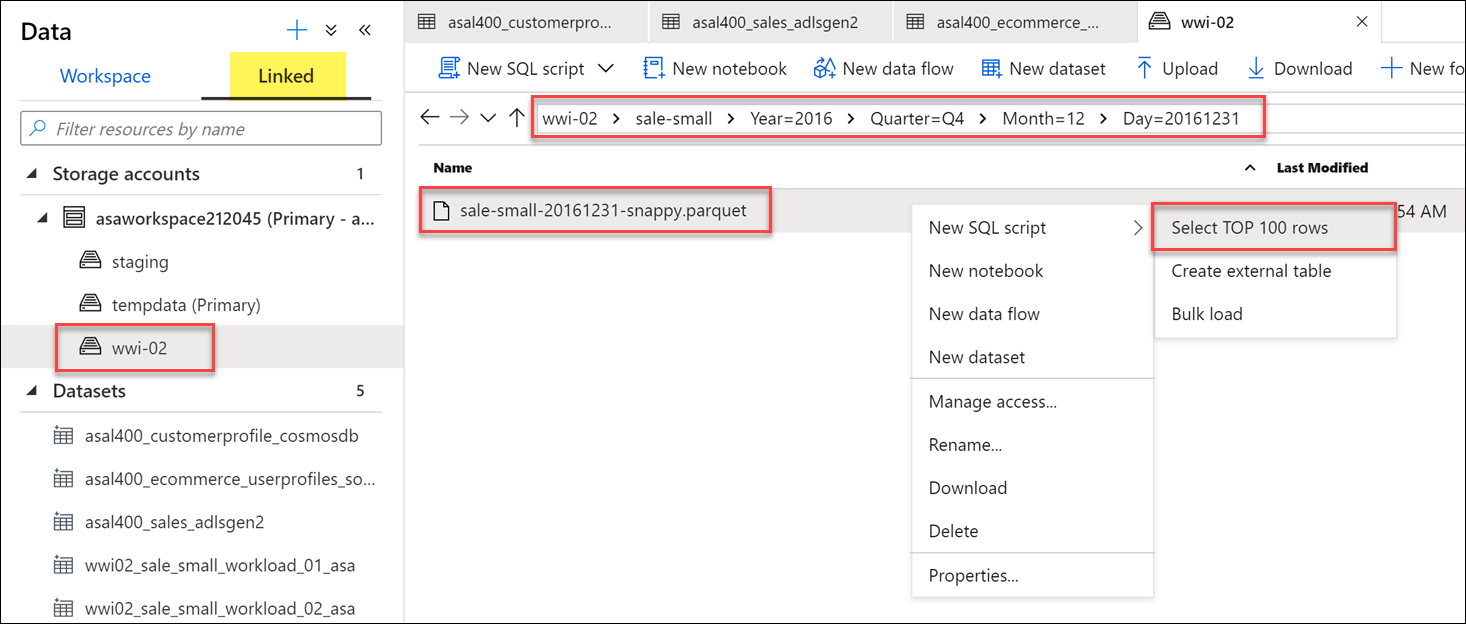
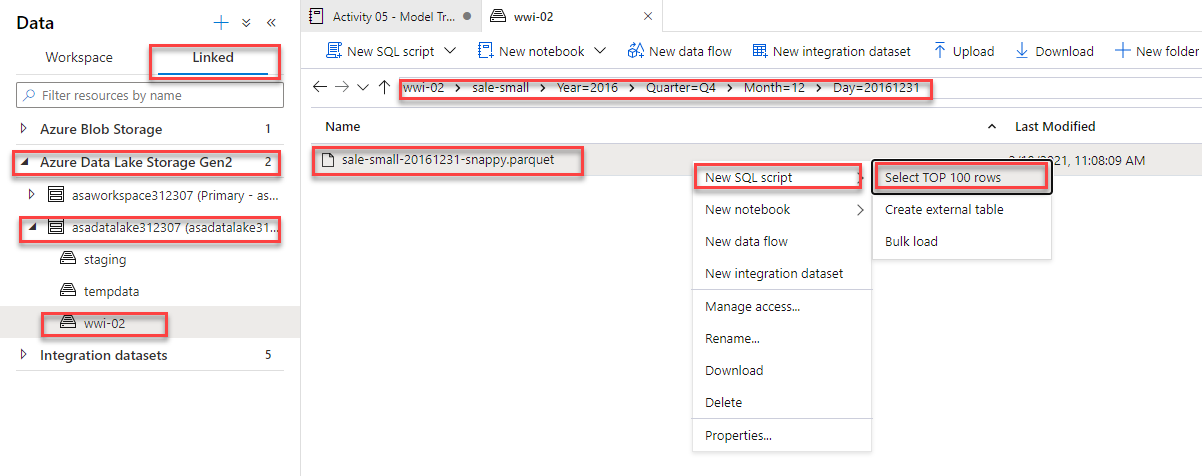
Update lab 1 screenshot and text - remove Storage Accounts in linked tab

diff --git a/day-01/lab01-data-integration-part-1.md b/day-01/lab01-data-integration-part-1.md
@@ -142,7 +142,7 @@ When you query Parquet files using a serverless SQL pool, you can explore the da
 
     ![The Data menu item is highlighted.](media/data-hub.png "Data hub")
 
-2. Select the **Linked** tab and expand **Storage accounts**. Expand the `asaworkspaceXX` primary ADLS Gen2 account and select `wwi-02`.
+2. Select the **Linked** tab and expand *Azure Data Lake Storage Gen2**. Expand the `asaworkspaceXX` primary ADLS Gen2 account and select `wwi-02`.
 
 3. Navigate to the `sale-small/Year=2016/Quarter=Q4/Month=12/Day=20161231` folder. Right-click on the `sale-small-20161231-snappy.parquet` file, select **New SQL script**, then **Select TOP 100 rows**.
 
